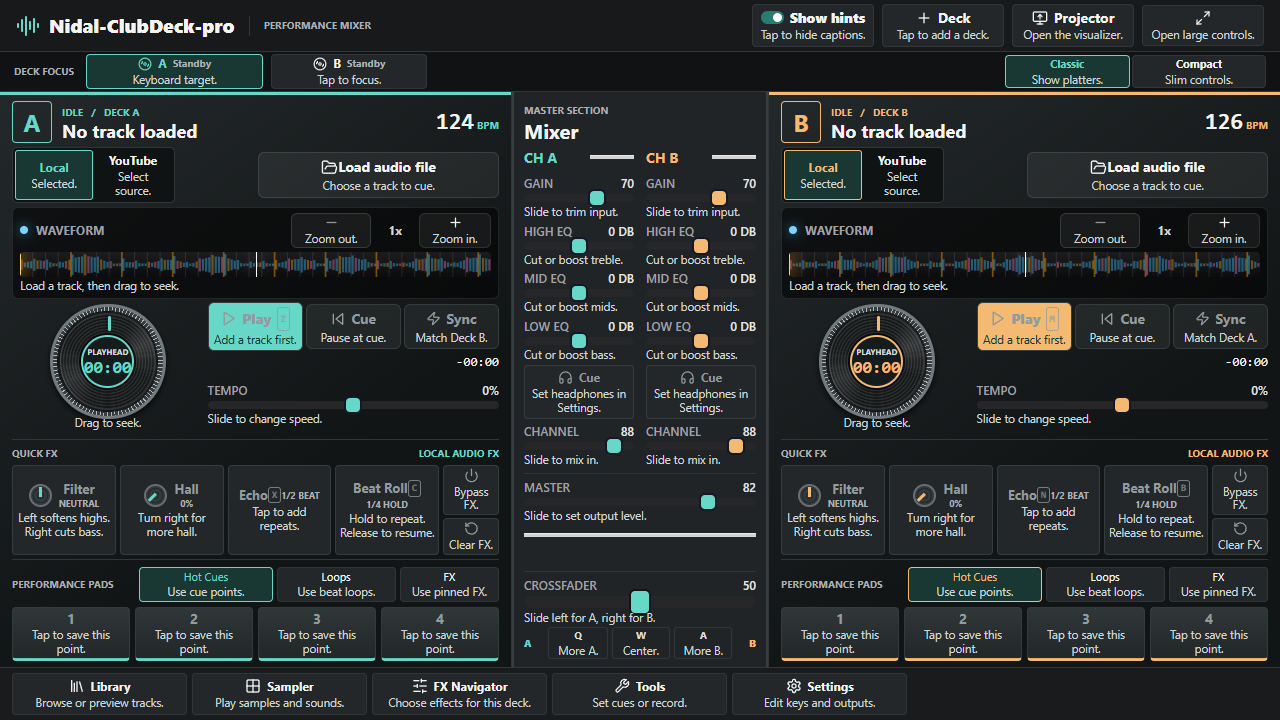
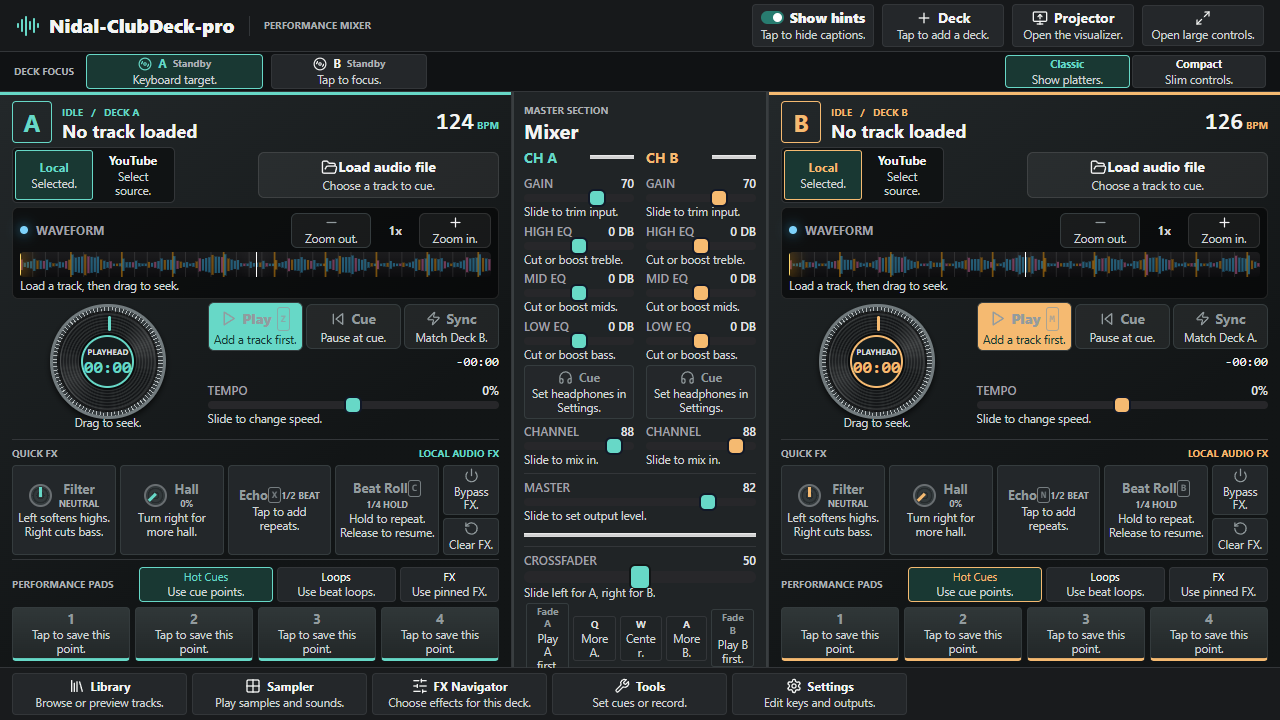
Stream YouTube on deck and crossfade playing sources

Changed region(s): [[0.4062, 0.7639, 0.5938, 0.9167], [0.5625, 0.7639, 0.5938, 0.825]]

diff --git a/src/components/dj/Deck.tsx b/src/components/dj/Deck.tsx
@@ -1,9 +1,9 @@
 import { FormEvent, useEffect, useMemo, useRef, useState } from "react";
-import { ExternalLink, Link, Pause, Play, SkipBack, Zap, FolderOpen } from "lucide-react";
+import { Link, Pause, Play, SkipBack, Zap, FolderOpen } from "lucide-react";
 import { useDjStore } from "../../store/djStore";
 import type { DeckId } from "../../types/dj";
 import { useYouTubeDeck } from "../../hooks/useYouTubeDeck";
-import { extractYouTubeVideoId,getYouTubeWatchUrl } from "../../services/youtubeService";
+import { extractYouTubeVideoId } from "../../services/youtubeService";
 import { createPortal } from "react-dom";
 import { changeLive, useLive, toggleLoop, usePreferences } from "../../store/performance";
 import { QuickFx } from "./QuickFx";
@@ -16,7 +16,6 @@ import { WaveformDisplay } from "./WaveformDisplay";
 interface DeckProps {
   deckId: DeckId;
   toolsHost: HTMLElement | null;
-  onWatch:(id:string)=>void;
 }
 
 const formatTime = (seconds: number) => {
@@ -55,7 +54,7 @@ const parseTimeInput = (value: string) => {
   return null;
 };
 
-export function Deck({ deckId, toolsHost,onWatch }: DeckProps) {
+export function Deck({ deckId, toolsHost }: DeckProps) {
   const deck = useDjStore((state) => state.decks[deckId]);
   const updateDeck = useDjStore((state) => state.updateDeck);
   const loadYouTubeTrack = useDjStore((state) => state.loadYouTubeTrack);
@@ -165,7 +164,7 @@ export function Deck({ deckId, toolsHost,onWatch }: DeckProps) {
           className="min-w-0 flex-1 rounded-md border border-white/10 bg-black/45 px-3 py-2 text-sm text-zinc-100 outline-none transition placeholder:text-zinc-600 focus:border-sky-300"
         />
         <ControlButton data-hint="Cue this link." type="submit" label={`Load deck ${deckId}`} tone="blue">
-          <Link size={15} /> Open video
+          <Link size={15} /> Load stream
         </ControlButton>
         </>}
         <input type="file" ref={fileInput} hidden accept="audio/*,.mp3,.wav,.flac,.m4a,.ogg" onChange={event => {
@@ -194,9 +193,7 @@ export function Deck({ deckId, toolsHost,onWatch }: DeckProps) {
         {!deck.videoId && <strong>YouTube player</strong>}
       </div>
       {!youtube && <div className="scope"><WaveformDisplay deckId={deckId}/></div>}
-      {youtube ? <div className="local-fx-notice"><span>Load a local file to use FX.</span>
-        {deck.videoId && (window.youtubeWatch ? <button data-hint="Use YouTube's own controls." onClick={()=>{player.pause();onWatch(deck.videoId!);}}>Watch inside mixer</button>
-        : <a data-hint="Open the official watch page." href={getYouTubeWatchUrl(deck.videoId)} target="_blank" rel="noreferrer">Open on YouTube</a>)}</div>:<QuickFx id={deckId}/>}
+      {youtube ? <div className="local-fx-notice">Load a local file to use FX.</div>:<QuickFx id={deckId}/>}
       <div className="tempo"><SliderControl label="Tempo" min={-16} max={16} step={0.1} unit="%" value={deck.pitch} onChange={handlePitchChange}/></div>
       <div className="pads"><div className="strip-label"><strong>Performance pads</strong><div>{(["Hot Cues","Loops","FX"] as const).map(mode =>
         <button data-hint={mode==="Hot Cues"?"Use cue points.":mode==="Loops"?"Use beat loops.":"Use pinned FX."} key={mode} aria-pressed={padMode===mode} onClick={() => setPadMode(mode)}>{mode}</button>)}</div></div>
@@ -212,7 +209,7 @@ export function Deck({ deckId, toolsHost,onWatch }: DeckProps) {
         {!deck.videoId && <JogWheel deckId={deckId} disabled={!hasSource} isPlaying={deck.isPlaying} onActivate={() => setActiveDeck(deckId)} onJog={player.jog} onBackspin={player.backspin}/>}
         <div className="position"><small>Playhead</small><strong>{formatTime(deck.currentTime)}</strong><span>{deck.localFile?.name ?? (deck.videoId ? "YouTube player" : "Manual jog")}</span></div>
       </div>
-      {deck.error && <aside className="deck-error" role="status">{deck.error} {deck.videoId && <a data-hint="Watch in your browser." href={getYouTubeWatchUrl(deck.videoId)} target="_blank" rel="noreferrer"><ExternalLink size={14}/> YouTube</a>}</aside>}
+      {deck.error && <aside className="deck-error" role="status">{deck.error}</aside>}
       {focused && toolsHost && createPortal(<div className="deck-tools">
         <h3>Deck {deckId} tools</h3><label data-hint="Choose four cue pads.">Cue bank <select value={bank} onChange={e => setBank(Number(e.target.value))}><option value="0">1 - 4</option><option value="1">5 - 8</option></select></label>
         <label data-hint="Choose a length or exit.">Loop beats <select value={loop} onChange={e => toggleLoop(deckId,Number(e.target.value))}>{[0,1,2,4,8].map(n=><option key={n} value={n}>{n || "Off"}</option>)}</select></label>

diff --git a/src/pages/DjStudio.tsx b/src/pages/DjStudio.tsx
@@ -17,7 +17,6 @@ import { usePreferences } from "../store/performance";
 import "./studio.css";
 import "./hints.css";
 import "./classic.css";
-import { WatchPanel } from "../components/dj/WatchPanel";
 
 const tabs = [["Library",Library],["Sampler",Grid2X2],["FX Navigator",SlidersHorizontal],["Tools",Wrench],["Settings",Settings]] as const;
 type Tab = (typeof tabs)[number][0];
@@ -30,7 +29,6 @@ export function DjStudio() {
   const showHints=usePreferences(s=>s.showHints);
   const large=useDjStore(s=>s.performanceMode);
   const classic=usePreferences(s=>s.classic);
-  const [watch,setWatch]=useState<{id:string;deck:string}|null>(null);
   const drawerHints={"Library":"Browse or preview tracks.","Sampler":"Play samples and sounds.","FX Navigator":"Choose effects for this deck.","Tools":"Set cues or record.","Settings":"Edit keys and outputs."};
   const toggle=(name:Tab)=>setTab(v=>v===name?null:name);
   return <main className="studio" data-classic={classic} data-drawer={!!tab} data-hints={showHints} data-performance={large}>
@@ -45,7 +43,7 @@ export function DjStudio() {
       onClick={()=>setActiveDeck(id)}><Disc3 size={14}/> {id} <span>{decks[id].isPlaying?"Playing":decks[id].status==="ready"?"Cued":"Standby"}</span></button>)}
       <div className="layout-switch" role="group" aria-label="Mixer layout">{["Classic","Compact"].map((name,i)=><button key={name} aria-pressed={classic===(i===0)} data-hint={i===0?"Show platters.":"Slim controls."} onClick={()=>usePreferences.setState({classic:i===0})}>{name}</button>)}</div></div>
     <div className="console-body">{ids.map(id=><div key={id} className="deck-slot" data-side={id==="B"?"right":"left"}
-      data-show={id==="B"||id===(active==="B"?"A":active)} data-mobile={active===id}><Deck deckId={id} toolsHost={toolsHost} onWatch={video=>setWatch({id:video,deck:id})}/></div>)}<Mixer/></div>
+      data-show={id==="B"||id===(active==="B"?"A":active)} data-mobile={active===id}><Deck deckId={id} toolsHost={toolsHost}/></div>)}<Mixer/></div>
     <div className="mobile-cross"><Crossfader/></div>
     <footer className="console-drawer">
       <nav>{tabs.map(([name,Icon])=><button data-hint={tab===name?"Tap to close.":drawerHints[name]} key={name} onClick={()=>toggle(name)} aria-expanded={tab===name} aria-controls="drawer-content"><Icon size={16}/><span>{name}</span></button>)}
@@ -58,6 +56,5 @@ export function DjStudio() {
         <div hidden={tab!=="Settings"}><LiveSettings/><div className="mobile-mixer"><Mixer/></div></div>
       </div>
     </footer>
-    {watch && <WatchPanel id={watch.id} deck={watch.deck} onClose={()=>setWatch(null)}/>}
   </main>;
 }

diff --git a/src/components/dj/Mixer.tsx b/src/components/dj/Mixer.tsx
@@ -2,20 +2,17 @@ import { Headphones } from "lucide-react";
 import { useDjStore } from "../../store/djStore";
 import { usePreferences } from "../../store/performance";
 import { SliderControl } from "./SliderControl";
-import { deckPlayerRegistry } from "../../services/deckPlayerRegistry";
+import { fadeTo,moveFader,stopFade } from "../../services/crossfade";
 
 export function Crossfader() {
   const value = useDjStore(s=>s.mixer.crossfader);
-  const decks=useDjStore(s=>s.decks);
-  if(decks.A.source==="youtube" || decks.B.source==="youtube")return <div className="cross-strip handoff"><small>Deck switch</small><div>
-    {(["A","B"] as const).map(id=><button key={id} aria-label={`Switch to ${id}`} data-hint="Pause this deck and play the other." disabled={decks[id].status!=="ready" || decks[id].isPlaying} onClick={()=>{
-      deckPlayerRegistry.pause(id==="A"?"B":"A");
-      deckPlayerRegistry.play(id);
-    }}>Switch to {id}</button>)}</div></div>;
-  return <div className="cross-strip"><SliderControl label="Crossfader" value={value} onChange={crossfader=>useDjStore.getState().updateMixer({crossfader})}/>
-    <div className="fader-scale"><b>A</b><span>{(["Q","W","A"] as const).map((key,i)=>
-      <button data-hint={["More A.","Center.","More B."][i]} key={key} title={["Nudge left","Center crossfader","Nudge right"][i]} onClick={()=>useDjStore.getState().updateMixer({
-        crossfader:i===1?50:Math.max(0,Math.min(100,value+(i===0?-5:5)))})}>{key}</button>)}</span><b>B</b></div></div>;
+  const playingA=useDjStore(s=>s.decks.A.isPlaying),playingB=useDjStore(s=>s.decks.B.isPlaying);
+  const target=(id:"A"|"B",playing:boolean)=><button aria-label={`Fade to ${id}`} disabled={!playing}
+    data-hint={playing?"3 sec fade.":`Play ${id} first.`} onClick={()=>fadeTo(id)}>Fade {id}</button>;
+  return <div className="cross-strip" onPointerDownCapture={stopFade}><SliderControl label="Crossfader" value={value} onChange={moveFader}/>
+    <div className="fader-scale">{target("A",playingA)}<span>{(["Q","W","A"] as const).map((key,i)=>
+      <button data-hint={["More A.","Center.","More B."][i]} key={key} title={["Nudge left","Center crossfader","Nudge right"][i]} onClick={()=>moveFader(
+        i===1?50:Math.max(0,Math.min(100,value+(i===0?-5:5))))}>{key}</button>)}</span>{target("B",playingB)}</div></div>;
 }
 
 export function Mixer() {

diff --git a/src/hooks/useKeyboardShortcuts.ts b/src/hooks/useKeyboardShortcuts.ts
@@ -1,4 +1,5 @@
 import { useEffect } from "react";
+import { moveFader,stopFade } from "../services/crossfade";
 import { deckPlayerRegistry } from "../services/deckPlayerRegistry";
 import { useDjStore } from "../store/djStore";
 import { triggerSlot, usePreferences, holdFavorite, releaseFavorite, international } from "../store/performance";
@@ -39,7 +40,7 @@ export function useKeyboardShortcuts() {
         return;
       }
 
-      const { activeDeckId, mixer, updateMixer } = useDjStore.getState();
+      const { activeDeckId, mixer } = useDjStore.getState();
       const seekAmount = event.shiftKey ? 5 : event.altKey ? 0.25 : 1;
 
       if (event.key === "ArrowLeft") {
@@ -81,23 +82,21 @@ export function useKeyboardShortcuts() {
         else { held.set(event.code || event.key,id); triggerSlot(id,1,true); }
         return;
       }
-      const {decks}=useDjStore.getState();
-      if(decks.A.source==="youtube" || decks.B.source==="youtube")return;
       if (key === "q") {
         event.preventDefault();
-        updateMixer({ crossfader: Math.max(0, mixer.crossfader - 5) });
+        moveFader(Math.max(0, mixer.crossfader - 5));
         return;
       }
 
       if (key === "w") {
         event.preventDefault();
-        updateMixer({ crossfader: 50 });
+        moveFader(50);
         return;
       }
 
       if (key === "a") {
         event.preventDefault();
-        updateMixer({ crossfader: Math.min(100, mixer.crossfader + 5) });
+        moveFader(Math.min(100, mixer.crossfader + 5));
       }
     };
 
@@ -106,6 +105,7 @@ export function useKeyboardShortcuts() {
     window.addEventListener("blur",releaseAll);
     document.addEventListener("visibilitychange",visibility);
     return () => {
+      stopFade();
       releaseAll();
       window.removeEventListener("keydown", onKeyDown);
       window.removeEventListener("keyup",release);

diff --git a/src/hooks/useYouTubeDeck.ts b/src/hooks/useYouTubeDeck.ts
@@ -14,11 +14,7 @@ export function useYouTubeDeck(deckId: DeckId, elementId: string) {
   const playerRef = useRef<YouTubeDeckPlayer | null>(null);
   const outputVolumeRef = useRef(0);
   const localPath=useRef<{audio:HTMLAudioElement;channel:LiveChannel|null}|null>(null);
-  const switching=useDjStore(s=>s.decks.A.source==="youtube" || s.decks.B.source==="youtube");
-  const blend=calculateCrossfadeGain(deckId,mixer.crossfader,mixer.fadeCurve);
-  const lastBlend=useRef(blend);
-  const mixGain=switching && deck.isPlaying ? lastBlend.current : switching ? 1 : blend;
-  useEffect(()=>{lastBlend.current=mixGain;},[mixGain]);
+  const mixGain=calculateCrossfadeGain(deckId,mixer.crossfader,mixer.fadeCurve);
   useEffect(()=>()=>{localPath.current?.channel?.destroy();channels.delete(deckId);localPath.current=null;},[deckId]);
 
   const outputVolume = useMemo(() => {
@@ -35,8 +31,6 @@ export function useYouTubeDeck(deckId: DeckId, elementId: string) {
     deckId,
     mixer.channelVolumeA,
     mixer.channelVolumeB,
-    mixer.crossfader,
-    mixer.fadeCurve,
     mixer.gainA,
     mixer.gainB,
     mixer.masterVolume
@@ -151,7 +145,7 @@ export function useYouTubeDeck(deckId: DeckId, elementId: string) {
         onEnded: () => playback(false),
         onError: event => fail(youtubeErrorMessage(event.data)),
         onAutoplayBlocked: () => {
-          if (current()) useDjStore.getState().updateDeck(deckId, {isPlaying:false,error:"Playback blocked. Press Play here, or switch back to the previous deck."});
+          if (current()) useDjStore.getState().updateDeck(deckId, {isPlaying:false,error:"Playback blocked. Press Play inside this deck’s YouTube player."});
         }
       }, controller.signal).then(ready).catch(error => fail(error.message));
     }

diff --git a/src/pages/studio.css b/src/pages/studio.css
@@ -69,13 +69,13 @@
 .drawer-content:has(>div:not([hidden]) .library-view[data-preview=true]){height:250px}
 .pad-row button{touch-action:none;user-select:none;line-height:1.1}.hall-knob{color:#eed1a2}
 .source-switch {display:flex;align-self:stretch;gap:1px;padding:2px;border:1px solid var(--line);border-radius:5px;background:#101314}
-.source-switch button,.handoff button {padding:4px 8px;font-weight:700;font-size:12px;border:1px solid transparent;border-radius:3px}
+.source-switch button {padding:4px 8px;font-weight:700;font-size:12px;border:1px solid transparent;border-radius:3px}
 .load-row {align-items:center}.load-row>button:last-child {margin-left:auto}
 .deck-video {flex:1 0 200px;min-height:200px;display:grid;place-items:center;background:#090b0c;color:var(--muted);border-radius:4px}
 .deck-video .yt-mount:not(:empty),.deck-video iframe {width:100%;height:100%;min-height:200px;border:0;display:block}
 .deck-video .yt-mount:empty{display:none}
 .local-fx-notice {border-block:1px solid var(--line);padding:5px 0;color:var(--muted);font-size:12px}
-.handoff>div {display:flex;gap:5px}.handoff button{flex:1;background:#203732;border-color:#477c71}.handoff button:disabled{background:#202325}
+.fader-scale>button {color:var(--accent);font-weight:bold}.fader-scale>button:last-child {color:#f5ba71}
 .studio .live-deck[data-source=youtube] .media-strip{display:none}
 .studio .live-deck[data-source=youtube] .deck-error{position:static;flex:none}
 .studio[data-performance=true] .live-deck .media-strip{display:none}

diff --git a/src/pages/classic.css b/src/pages/classic.css
@@ -1,10 +1,6 @@
 .layout-switch {display:flex;gap:2px;margin-left:auto}
 .studio .layout-switch button {min-width:0;font-size:11px}
 .local-fx-notice {display:flex;align-items:center;justify-content:space-between;gap:5px}
-.local-fx-notice :is(button,a),.watch-panel button {border:1px solid #455158;border-radius:4px;padding:4px 8px;color:#c2e7ff;background:#20272a}
-.watch-panel {position:fixed;z-index:20;right:8px;top:55px;bottom:60px;width:min(585px,calc(100% - 16px));display:flex;flex-direction:column;border:1px solid #637377;border-radius:5px;background:#14181b;box-shadow:0 8px 35px #000a}
-.watch-panel header {display:flex;align-items:center;justify-content:space-between;padding:5px 10px}
-.watch-panel h2 {font-size:16px;font-weight:bold}.watch-host{flex:1;min-height:0}.watch-host p{padding:16px}.watch-host a{text-decoration:underline}
 .studio[data-classic=true] .live-deck {background:linear-gradient(145deg,#23282a,#121516 65%);border-top-width:3px}
 .studio[data-classic=true] .live-mixer {border-inline:2px solid #393e40;background:#202426}
 .studio[data-classic=true] .pad-row button {border-bottom-color:var(--accent);background:linear-gradient(#303738,#222728)}

diff --git a/src/components/dj/LibraryDrawer.tsx b/src/components/dj/LibraryDrawer.tsx
@@ -1,6 +1,6 @@
 import { useEffect, useLayoutEffect, useRef, useState } from "react";
-import { ExternalLink, Play } from "lucide-react";
-import { extractYouTubeVideoId, getYouTubeWatchUrl, loadYouTubeIframeApi, youtubeErrorMessage } from "../../services/youtubeService";
+import { Play } from "lucide-react";
+import { extractYouTubeVideoId, loadYouTubeIframeApi, youtubeErrorMessage } from "../../services/youtubeService";
 import { PlaylistPanel } from "./PlaylistPanel";
 
 export function LibraryDrawer({open}:{open:boolean}) {
@@ -57,7 +57,6 @@ export function LibraryDrawer({open}:{open:boolean}) {
         <div><input id="preview-link" placeholder="Paste a YouTube link" value={link} onChange={e=>setLink(e.target.value)}/>
           <button data-hint="Play this link." type="submit"><Play size={15}/> Preview</button></div>
         {error && <span role="status">{error}</span>}
-        {request && <a data-hint="Watch in your browser." href={getYouTubeWatchUrl(request.id)} target="_blank" rel="noreferrer"><ExternalLink size={14}/>Open on YouTube</a>}
       </form>
       <div ref={host} className="preview-player" aria-label="YouTube preview player"/>
     </div>

diff --git a/src/services/crossfade.ts b/src/services/crossfade.ts
@@ -1,0 +1,30 @@
+import { useDjStore } from "../store/djStore";
+
+let frame=0;
+export function stopFade() {
+  cancelAnimationFrame(frame);
+  frame=0;
+}
+export function moveFader(crossfader:number) {
+  stopFade();
+  useDjStore.getState().updateMixer({crossfader});
+}
+export function fadeTo(id:"A"|"B") {
+  stopFade();
+  const {decks,mixer}=useDjStore.getState();
+  if(!decks[id].isPlaying)return;
+  const start=mixer.crossfader, end=id==="A"?0:100, loadId=decks[id].loadId;
+  const since=performance.now();
+  const advance=(now:number)=>{
+    const state=useDjStore.getState(), target=state.decks[id];
+    if(!target.isPlaying || target.loadId!==loadId){
+      if(state.decks[id==="A"?"B":"A"].isPlaying)state.updateMixer({crossfader:start});
+      stopFade();return;
+    }
+    const t=Math.min(1,(now-since)/3000);
+    const next=Math.round(start+(end-start)*t);
+    if(next!==state.mixer.crossfader)state.updateMixer({crossfader:next});
+    frame=t<1?requestAnimationFrame(advance):0;
+  };
+  frame=requestAnimationFrame(advance);
+}

diff --git a/src/services/youtubeService.ts b/src/services/youtubeService.ts
@@ -144,7 +144,7 @@ export const fetchYouTubeTrackMeta = async (url: string): Promise<YouTubeTrackMe
   }
 
   try {
-    const response = await fetch(`https://www.youtube.com/oembed?format=json&url=${encodeURIComponent(url)}`);
+    const response = await fetch(`https://www.youtube.com/oembed?format=json&url=${encodeURIComponent(getYouTubeWatchUrl(videoId))}`);
     if (!response.ok) {
       throw new Error("Metadata unavailable.");
     }

diff --git a/README.md b/README.md
@@ -1,6 +1,8 @@
 # Nidal-ClubDeck-pro
 
-Version 1.5.0 of the portable Windows DJ mixer. Mix local audio with the classic jog platters, per-deck FX and crossfader, or cue a YouTube link in its official player. The desktop version can also open YouTube's own watch page inside the mixer window. Watch-page playback uses YouTube's controls and is separate from the deck effects.
+Version 1.6.0 of the portable Windows and browser DJ mixer. Stream embeddable YouTube videos directly on the decks or mix local audio with the classic jog platters and per-deck FX.
+
+For a transition, move the crossfader to A. Load a stream on B and press Play when ready. Drag the fader toward B for a manual blend, or press **Fade B** for a three-second transition. Neither action starts or stops a deck. Touch the slider or use Q/W/A to take over a timed fade. The same fader works for local and mixed-source sets. YouTube does not expose its audio to the local FX or recorder. Videos that block embedded playback cannot stream inside the mixer.
 
 ![Classic mixer](screenshots/classic-mixer.png)
 

diff --git a/PORTABLE_USB.md b/PORTABLE_USB.md
@@ -1,7 +1,7 @@
 # Nidal-ClubDeck-pro Portable USB Build
 
 For faster USB startup, build the Windows folder edition with `npm.cmd run desktop:usb`.
-Extract `Nidal-ClubDeck-pro-USB-1.5.0.zip` once into a folder on the USB.
+Extract `Nidal-ClubDeck-pro-USB-1.6.0.zip` once into a folder on the USB.
 Launch `Nidal-ClubDeck-pro.exe` inside that folder and keep the adjacent files with it.
 This edition runs directly from the folder on each launch.
 
@@ -14,7 +14,7 @@ npm.cmd run desktop:portable
 The generated executable is written to:
 
 ```text
-C:\tmp\clubdeck-pro-release\Nidal-ClubDeck-pro-Portable-1.5.0.exe
+C:\tmp\clubdeck-pro-release\Nidal-ClubDeck-pro-Portable-1.6.0.exe
 ```
 
 ## Use
